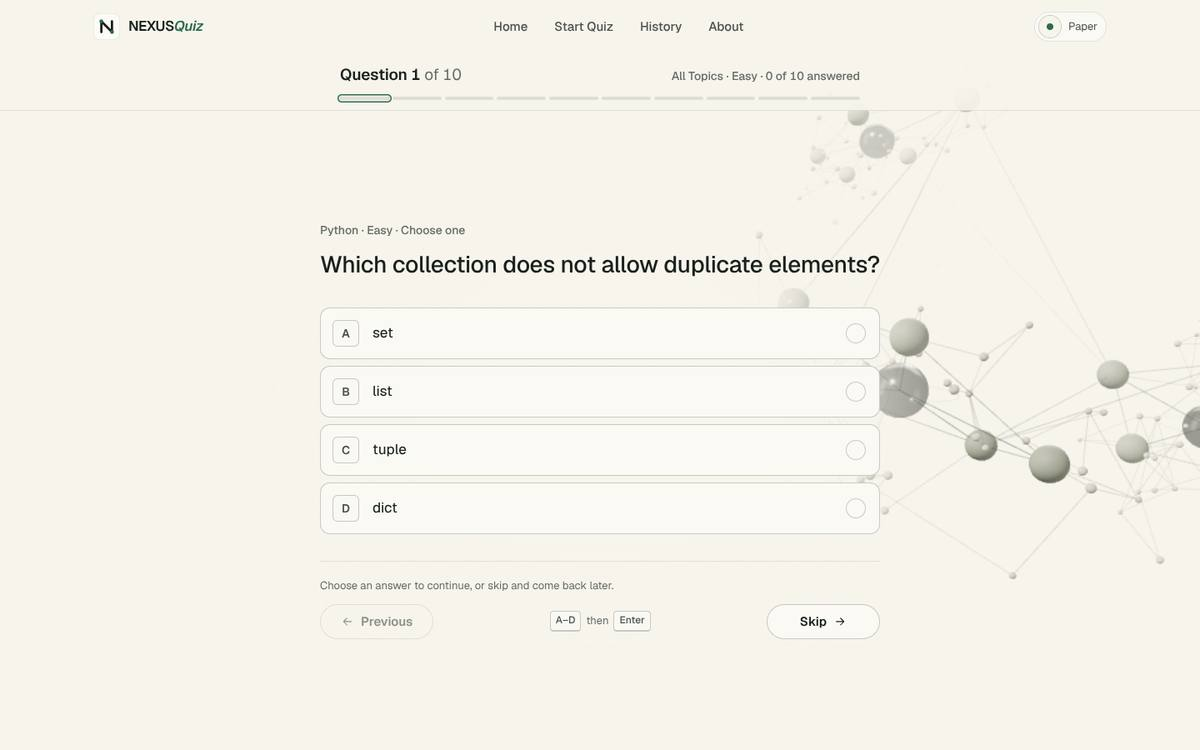
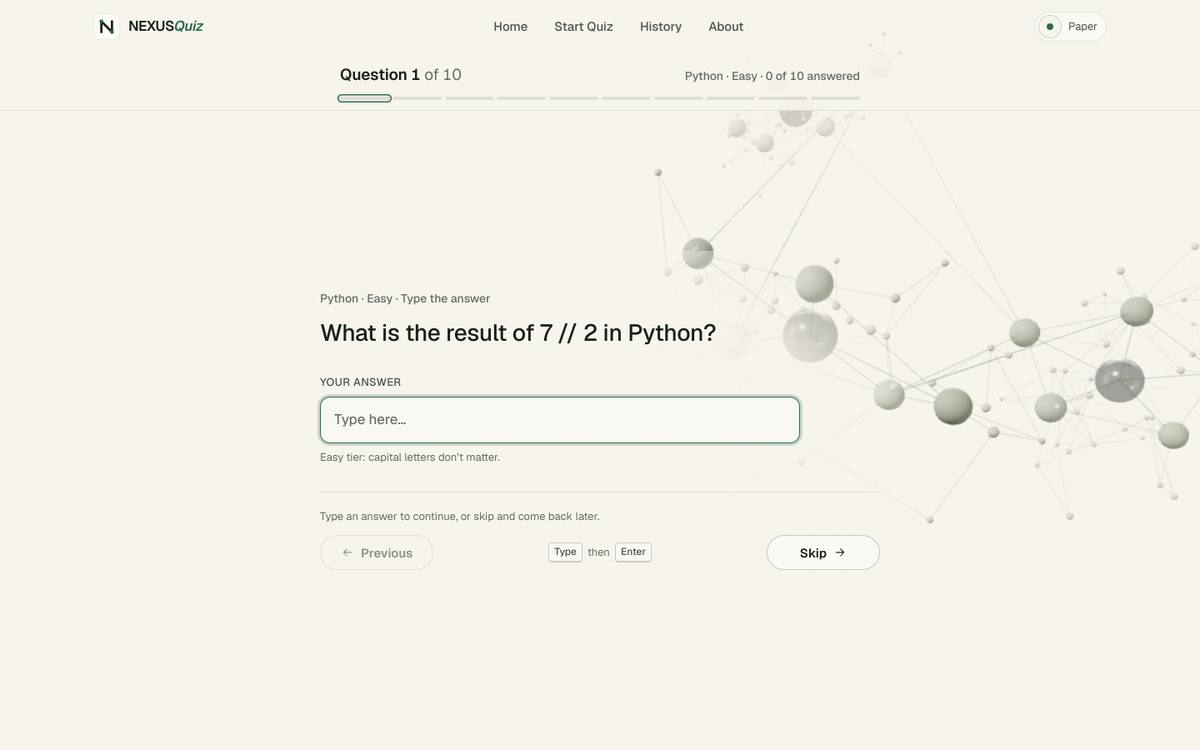
3d: quiz presence 0.34; docs/3D-IDENTITY.md + refreshed screenshots (hover, result path reveal, reduced-motion fallback)

diff --git a/src/components/three/network.ts b/src/components/three/network.ts
@@ -343,7 +343,7 @@ export interface Behaviour {
 export const BEHAVIOUR: Record<NetworkMode, Behaviour> = {
   alive: { liveliness: 1, pulseRate: 0.9, dust: 1, presence: 1, cursor: 1, relinkEvery: 5, orbit: [0.09, 0.05], fps: 60 },
   responsive: { liveliness: 0.6, pulseRate: 0.35, dust: 0.35, presence: 0.95, cursor: 0.5, relinkEvery: 8, orbit: [0.04, 0.04], fps: 60 },
-  quiet: { liveliness: 0.2, pulseRate: 0, dust: 0, presence: 0.4, cursor: 0, relinkEvery: 0, orbit: [0.015, 0.03], fps: 30 },
+  quiet: { liveliness: 0.2, pulseRate: 0, dust: 0, presence: 0.34, cursor: 0, relinkEvery: 0, orbit: [0.015, 0.03], fps: 30 },
   activated: { liveliness: 0.65, pulseRate: 0.5, dust: 0.4, presence: 1, cursor: 0.35, relinkEvery: 0, orbit: [0.05, 0.045], fps: 60 },
   accumulated: { liveliness: 0.4, pulseRate: 0.4, dust: 0.25, presence: 0.9, cursor: 0.35, relinkEvery: 10, orbit: [0.03, 0.035], fps: 60 },
   atmospheric: { liveliness: 0.3, pulseRate: 0.12, dust: 0.5, presence: 0.7, cursor: 0.2, relinkEvery: 0, orbit: [0.07, 0.025], fps: 30 },

diff --git a/docs/3D-IDENTITY.md b/docs/3D-IDENTITY.md
@@ -1,0 +1,101 @@
+# NEXUSQuiz — 3D identity: the Living Knowledge Network
+
+One WebGL scene, mounted once in `Layout`, fixed behind every page. Pages
+never render 3D themselves; they *describe* how the network should behave
+(`useNetwork({...})`) and the scene reads that description every frame.
+
+## The concept
+
+Knowledge is a network with three regions at different depths —
+**Maths**, **Python** and the **Mixed** bridge between them. Each region has
+a dark core, a ring of topic nodes and a cloud of question nodes; hairline
+links join them. Long bridges connect the regions.
+
+Only two things ever change colour:
+
+| Signal | Meaning |
+|---|---|
+| **Green** | knowledge that is active or meaningful — activated nodes, a travelling signal, the hovered neighbourhood, the answered path on Result |
+| Bone / graphite | everything neutral — nodes, links, cores |
+
+Nothing else is coloured. There is no glow, bloom, gradient or particle
+burst; the network stays understated so typography sits in front of it.
+
+### Signals travel along the graph
+
+A "pulse" is not an expanding sphere. Each edge stores its shortest-path
+distance to its region's core (`network.ts → pathLen`, Dijkstra on the
+structural graph), and the shader lights the band where
+`pathLen ≈ age × speed`. The signal therefore follows the actual links
+outward, branches where the graph branches and crosses the bridges into
+other regions — the network visibly *thinks* instead of rippling.
+
+### Camera
+
+- One slow orbital arc around the look target (amplitude ≤ 0.09 rad,
+  period ≈ 2 min on Home). Never a spin, never a snap.
+- Cursor parallax moves the camera, not the objects, so depth stays true.
+- Home scroll dollies the camera into the network along its depth axis
+  (first ~1.4 viewports), while overall presence fades so section copy
+  stays legible.
+- Result starts near the core and pulls back to reveal.
+
+## Per-page behaviour (`network.ts → BEHAVIOUR`)
+
+| Page | Mode | Presence | Motion | Cursor | Signals | Frame budget | What it means |
+|---|---|---|---|---|---|---|---|
+| Home | `alive` | 1.0 | orbit 0.09 rad, drift 1.0 | parallax + node repulsion + hover neighbourhood | ~0.9/s | 60 fps | the network at full expression, framing the hero |
+| Setup | `responsive` | 0.95 | 0.04 rad, 0.6 | parallax 0.5 | on every selection, into the chosen region | 60 fps | region focus follows category; density follows difficulty; activation follows question count |
+| Quiz | `quiet` | 0.34 | 0.015 rad, 0.2 | **none** | none | **30 fps demand loop** | recedes into the paper; activation grows with answered count |
+| Result | `activated` | 1.0 | 0.05 rad, 0.65 | parallax 0.35 | two signals through the quiz's region | 60 fps | **knowledge path**: the region lights node by node in question order — correct = green node, wrong = gap |
+| History | `accumulated` | 0.9 | 0.03 rad, 0.4 | parallax 0.35 | ~0.4/s | 60 fps | per-region established weight from real history (attempts × accuracy); filter focuses a region |
+| About | `atmospheric` | 0.7 | 0.07 rad, very slow | parallax 0.2 | ~0.12/s | 30 fps demand loop | museum: slow arc, few signals, no relinking |
+
+Hover (Home only): the nearest topic/question node lifts, its neighbours
+lift less, and its links turn green. The label that follows it is plain
+DOM (`NexusStage → HoverLabel`), not WebGL.
+
+## Performance budget
+
+- **One** instanced sphere mesh for every node (1 geometry, 1 material);
+  **one** `LineSegments` for every link (1 shader); 3 cores share one
+  material; dust is a single `Points`. No per-node objects.
+- Dust: 150 (high) / 90 (medium) / 0 (low) points — halved again when
+  the performance monitor sees a second decline.
+- Per-page frame budget from the preset: Home/Setup/Result/History run
+  free; **Quiz and About run a 30 fps demand loop** (`frameloop="demand"`
+  + a 33 ms ticker), which is the lowest budget on the product.
+- `PerformanceMonitor` steps DPR down 0.25 at a time (floor 0.75, cap by
+  tier: 1.75 / 1.4 / 1.0) and never above the tier cap.
+- Hidden tab → `frameloop="never"`; nothing renders.
+- Quality tier: phone or `saveData` → low (fewer leaves, no dust, no
+  environment map, flat cores); ≤ 4 cores or ≤ 4 GB → medium.
+- No React re-renders inside the loop; the store is read imperatively.
+
+## Accessibility & fallback
+
+- `prefers-reduced-motion: reduce` → the same network is drawn **once as
+  SVG** (`StaticNetwork`), still following the page's presence and
+  activation, but never moving. The media query is watched live.
+- No WebGL → same SVG fallback.
+- Opt-out without a setting UI: open any page with `?3d=off` (persists in
+  `localStorage`, `?3d=on` clears it). Nothing else on the product changes.
+- No flashing: signals are ≤ 1 s bands travelling at 1.7 units/s; the
+  camera arc peaks at 0.09 rad over ~1 min; there is no strobing or
+  sudden cut apart from route changes.
+- Nothing is communicated only in 3D or colour. The Result path mirrors
+  the review list and the score card; History weights mirror the
+  "Established knowledge" bars; Setup focus mirrors the selected radio.
+
+## Files
+
+- `src/components/three/network.ts` — pure-TS graph (deterministic seed),
+  path lengths, parents, per-region orders, behaviour presets.
+- `src/components/three/store.ts` — tiny pub/sub store; `useNetwork`,
+  `pulseNetwork`, `threeDisabled`.
+- `src/components/three/NexusScene.tsx` — the WebGL scene (shaders,
+  camera, instancing, hover, knowledge path, frame governor).
+- `src/components/three/NexusStage.tsx` — mount, WebGL/reduced-motion
+  detection, SVG fallback, hover label.
+- `src/pages/Result.tsx` — passes the real per-question `is_correct` mask
+  and region so the network can light the path.
